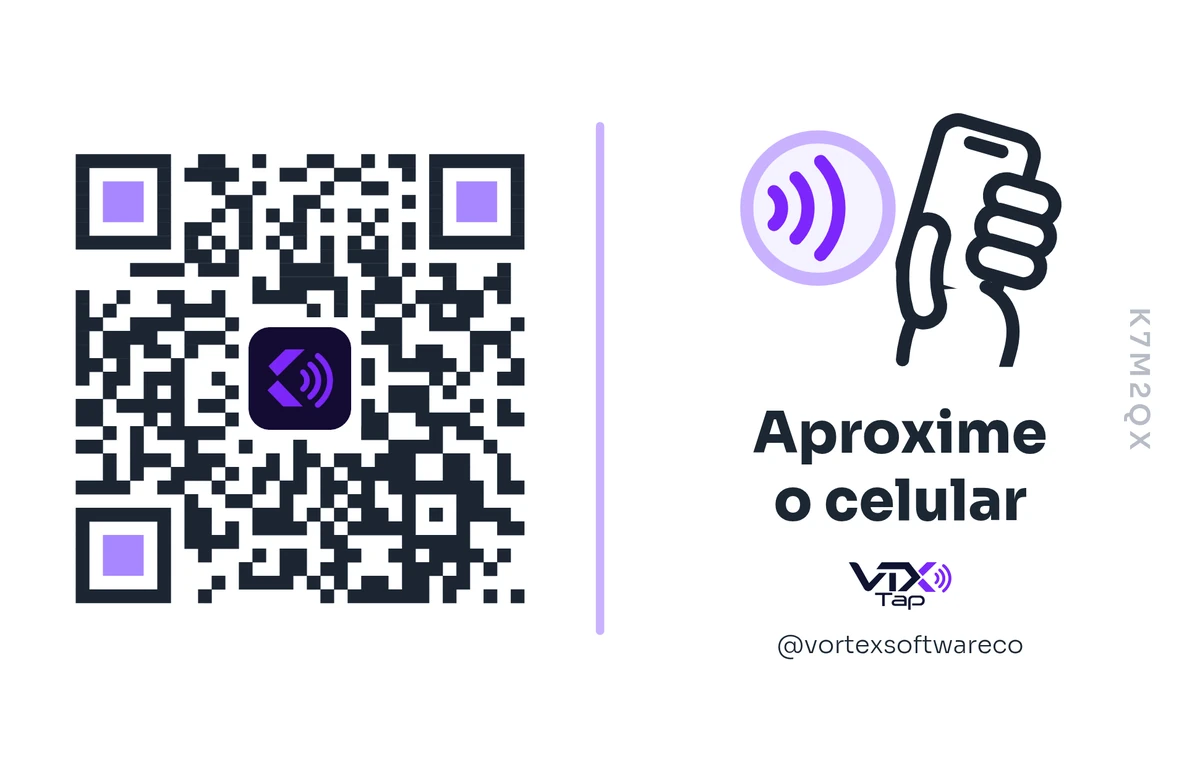
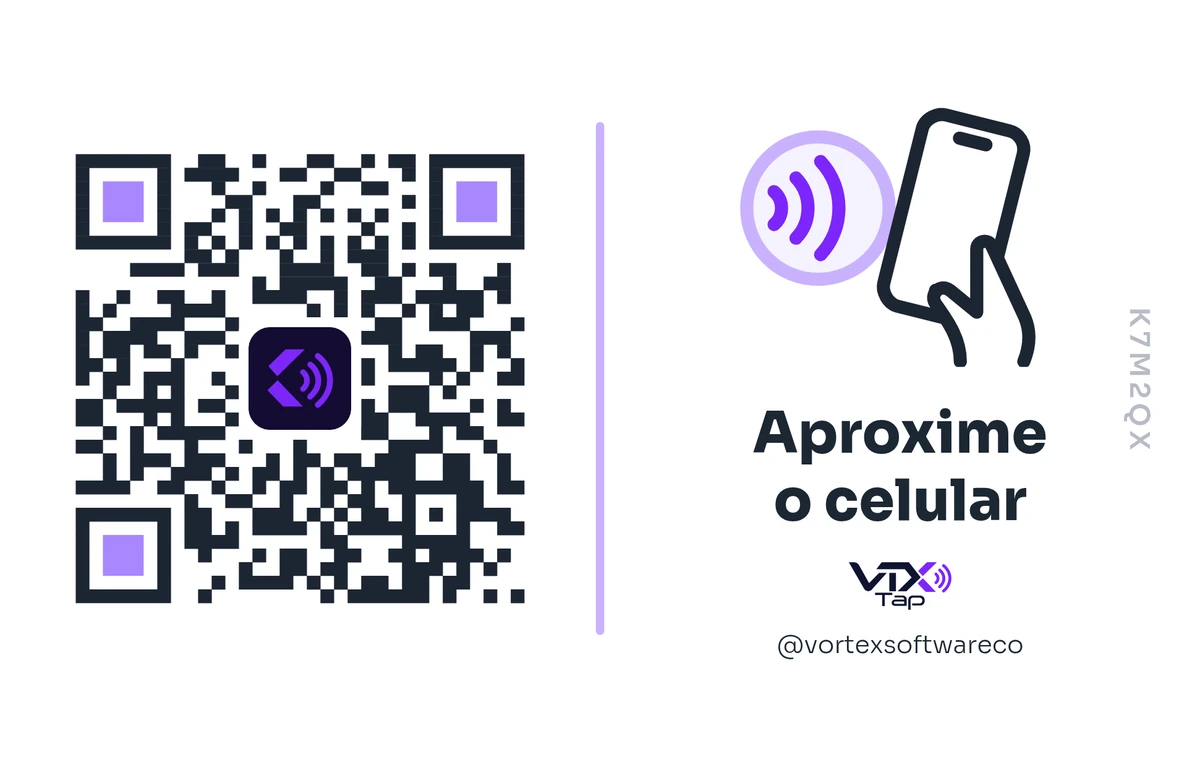
Plaquinha: volta o ícone de NFC anterior (celular e mão)
Claude-Session: https://claude.ai/code/session_01SquUYhy9CJfd3RStheVeY3

Changed region(s): [[0.7092, 0.1215, 0.8942, 0.4861]]

diff --git a/central/placa.js b/central/placa.js
@@ -52,22 +52,14 @@
   const LOGO_VTX = '/admin/icons/icon-512.png';          // marca quadrada (miolo do QR)
   const LOGO_VTX_TEXTO = '/assets/img/vtx-tap-escuro.png'; // logo com texto (ao lado do @)
 
-  /* Ícone de NFC: círculo com as ondas e uma mão segurando o celular, chegando perto. */
-  // Dedo/polegar: cápsula com contorno (linha escura grossa e linha branca por cima).
-  const capsula = (d, w) => `<path d="${d}" stroke="${TINTA}" stroke-width="${w + 4.8}" fill="none"/><path d="${d}" stroke="#fff" stroke-width="${w}" fill="none"/>`;
+  /* Ícone de NFC: círculo com as ondas e o celular chegando perto. */
   const NFC = (pal) => ({
     w: 64, h: 48,
-    svg: `<g fill="none" stroke-linecap="round" stroke-linejoin="round">
-      <circle cx="17" cy="19" r="13" stroke="${pal.claro}" stroke-width="2.4" fill="${pal.fundo}"/>
-      <g stroke="${pal.forte}" stroke-width="2.4"><path d="M13 13.5a8 8 0 0 1 0 11"/><path d="M17.5 10.5a12.5 12.5 0 0 1 0 17"/><path d="M9 16a4 4 0 0 1 0 6"/></g>
-      <g transform="translate(0 2.5) rotate(16 44 22)">
-        <rect x="34" y="1.5" width="18" height="31" rx="3.5" fill="#fff" stroke="${TINTA}" stroke-width="2.4"/>
-        <path d="M40 5h6" stroke="${TINTA}" stroke-width="2.4"/>
-        <path d="M39 46.5C38 41.5 38.5 36.5 41.5 32.5L50 29.5C55 30.5 57.5 34.5 57.5 40L57.5 46.5z" fill="#fff" stroke="none"/>
-        <path d="M39 46.5C38 41.5 38.5 36.5 41.5 32.5M50 29.5C55 30.5 57.5 34.5 57.5 40L57.5 46.5" stroke="${TINTA}" stroke-width="2.4"/>
-        ${capsula('M49 12.5H55', 3.8)}${capsula('M49 18.3H55.8', 3.8)}${capsula('M49 24.1H55.6', 3.8)}
-        ${capsula('M40 36Q36.6 30.5 37.2 23.5', 3.8)}
-      </g>
+    svg: `<g fill="none" stroke="${TINTA}" stroke-width="2.4" stroke-linecap="round" stroke-linejoin="round">
+      <circle cx="17" cy="19" r="13" stroke="${pal.claro}" fill="${pal.fundo}"/>
+      <path d="M13 13.5a8 8 0 0 1 0 11" stroke="${pal.forte}"/><path d="M17.5 10.5a12.5 12.5 0 0 1 0 17" stroke="${pal.forte}"/><path d="M9 16a4 4 0 0 1 0 6" stroke="${pal.forte}"/>
+      <g transform="rotate(14 42 22)"><rect x="32" y="3" width="19" height="36" rx="3.5" fill="#fff"/><path d="M39 6.5h5"/><circle cx="41.5" cy="34.5" r="1.2" fill="${TINTA}" stroke="none"/></g>
+      <path d="M43 47c0-4-2-7-4.5-10.5-1.2-1.8.8-3.8 2.6-2.5L46 38V26.5c0-1.6 2.2-2 2.8-.5l6 13c1 2.4 1 5-.2 8" fill="#fff"/>
     </g>`,
   });
   const NFC_W = 64;
